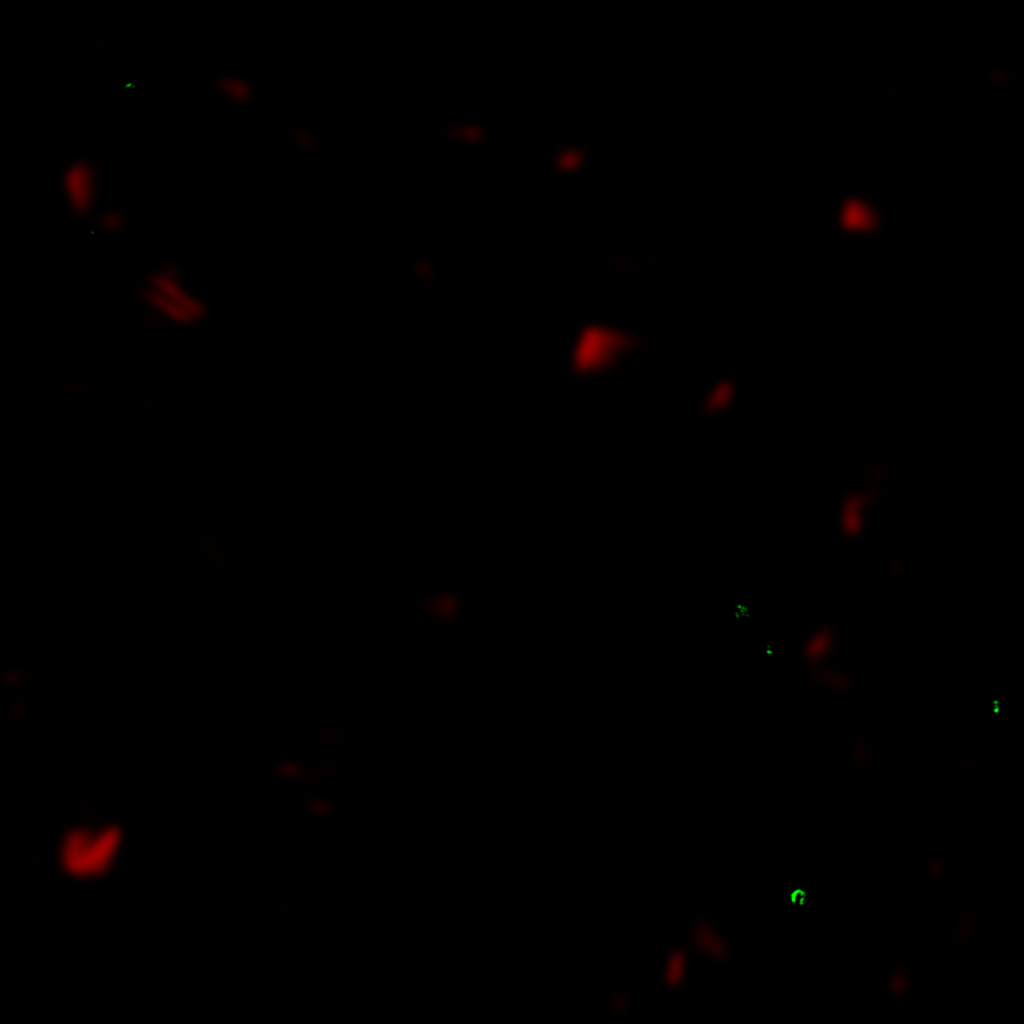
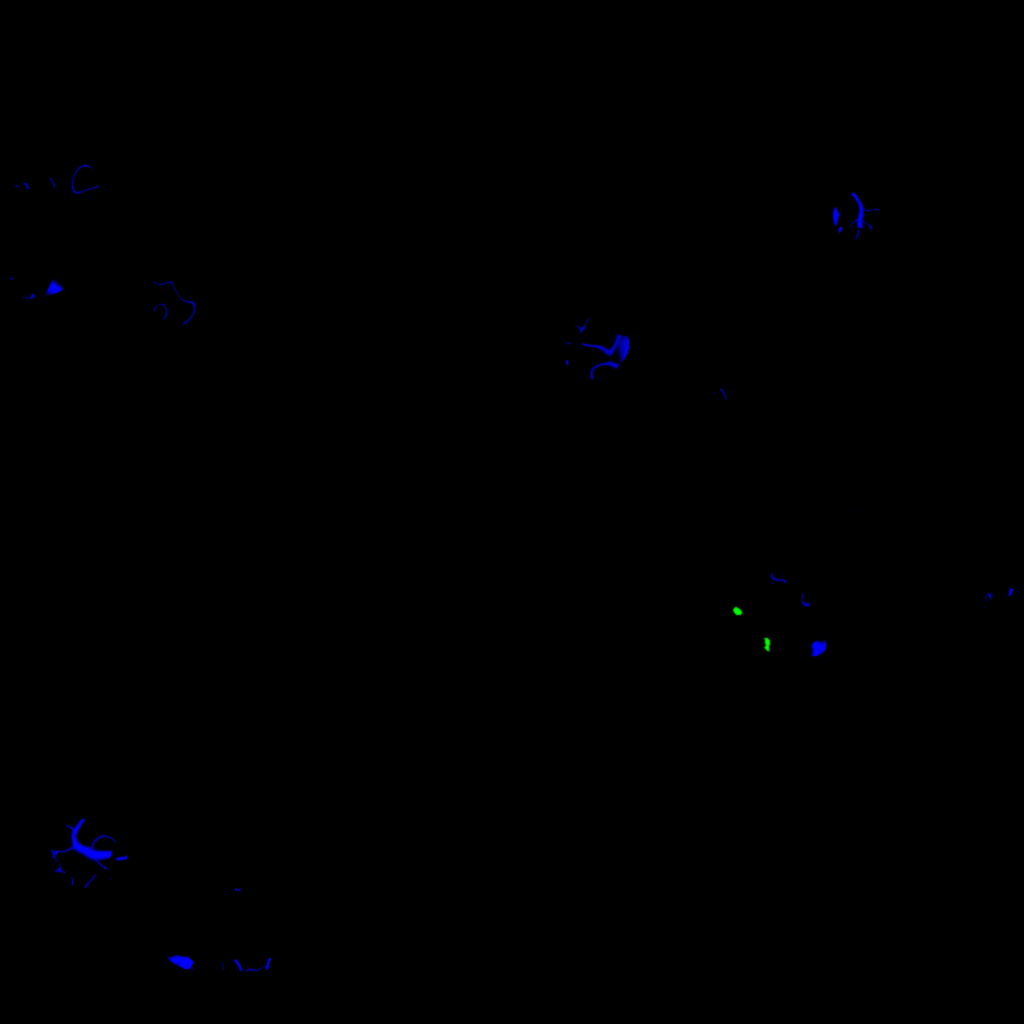
Pupil-only eyes, green veins, Titan back glow, Horde veins and blisters
Claude-Session: https://claude.ai/code/session_017Jb3ZiAdAVEmk7zs8Pm1ip

diff --git a/tools/build_enemy_glow_masks.py b/tools/build_enemy_glow_masks.py
@@ -2,10 +2,11 @@
 
 Run tools/dump_enemy_uv_rasters.gd first, then:
     python3 tools/build_enemy_glow_masks.py <raster dir>
-Channels (read by body_wound.gdshader): R = blister, G = eye, B = alternative blister colour (Horde green).
-Colour and brightness live in the <Enemy>_game.tres material. Colossus blisters are keyed by albedo colour
-(red patches); Titan, Brute, Revenant and Horde use the geometric bump raster. Eyes are the reddest albedo
-pixels inside a narrow height band of the head.
+Channels (read by body_wound.gdshader): R = blister, G = pupil, B = vein.
+Colour and brightness live in the <Enemy>_game.tres material and the shader. Colossus blisters are keyed by
+albedo colour (red patches); the other blisters use the geometric bump raster or noise blobs on the rest-space
+position. Veins are ridged 3D noise on the rest-space position, so they run across texture seams.
+Pupils are discs around two fixed 3D points on the face (measured on the Revenant head).
 """
 import sys
 import numpy as np
@@ -13,8 +14,11 @@ from PIL import Image, ImageFilter
 
 DIR = "models/objects/characters/enemy/game/"
 SIZE = 1024
-# Height band (0..1 inside the top 0.28 m of the model) where the eyes sit; missing = no eyes.
-EYE_BAND = {"Hunger": (0.4, 0.6), "Brute": (0.3, 0.5), "Revenant": (0.4, 0.6), "Titan": (0.3, 0.5)}
+PUPILS = {"Hunger": 0.9, "Brute": 0.9, "Revenant": 0.9}  # name: relative pupil size
+# Pupil centres in rest space: x of both eyes, depth below the top of the model; front is +z.
+EYE_X = (-0.0575, 0.0247)
+EYE_BELOW_TOP = 0.151
+EYE_RADIUS = 0.0085
 
 
 def blur(a, r):
@@ -26,31 +30,74 @@ def smooth(a, lo, hi):
     return t * t * (3 - 2 * t)
 
 
+def value_noise(p, seed):
+    """Trilinear value noise of an (H, W, 3) array of positions, in 0..1."""
+    i = np.floor(p).astype(np.int64)
+    f = p - i
+    f = f * f * (3 - 2 * f)
+
+    def corner(dx, dy, dz):
+        h = (i[..., 0] + dx) * 73856093 ^ (i[..., 1] + dy) * 19349663 ^ (i[..., 2] + dz) * 83492791 ^ seed * 2654435761
+        h = (h ^ (h >> 13)) * 1274126177 & 0xFFFFFFFF
+        return (h & 0xFFFF).astype(np.float32) / 65535
+
+    x = lambda a, b: a + (b - a) * f[..., 0]
+    y = lambda a, b: a + (b - a) * f[..., 1]
+    z = lambda a, b: a + (b - a) * f[..., 2]
+    return z(y(x(corner(0, 0, 0), corner(1, 0, 0)), x(corner(0, 1, 0), corner(1, 1, 0))),
+             y(x(corner(0, 0, 1), corner(1, 0, 1)), x(corner(0, 1, 1), corner(1, 1, 1))))
+
+
+def veins(p, freq=9.0):
+    """Thin branching lines: the zero set of two noise fields."""
+    thin = 1 - np.abs(value_noise(p * freq, 1) * 2 - 1)
+    branch = 1 - np.abs(value_noise(p * freq * 2.3, 2) * 2 - 1)
+    return np.maximum(smooth(thin, 0.9, 0.97), 0.8 * smooth(branch, 0.94, 0.985))
+
+
 def main(raster_dir):
     for name in ["Colossus", "Titan", "Brute", "Revenant", "Horde", "Hunger"]:
         alb = np.asarray(Image.open(DIR + name + "_albedo.jpg").convert("RGB").resize((SIZE, SIZE))).astype(np.float32)
         r, g, b = alb[..., 0], alb[..., 1], alb[..., 2]
         ras = np.asarray(Image.open(f"{raster_dir}/{name}_raster.png")).astype(np.float32) / 255
-        bump, head, height = ras[..., 0], ras[..., 1], ras[..., 2]
+        bump, head = ras[..., 0], ras[..., 1]
+        pos = np.fromfile(f"{raster_dir}/{name}_pos.f32", np.float32).reshape(SIZE, SIZE, 3)
+        top = float(open(f"{raster_dir}/{name}_top.txt").read())
+        x, y, z = pos[..., 0], pos[..., 1], pos[..., 2]
+        mapped = np.abs(pos).sum(axis=2) > 0
+        skin = (r > 110) & (r >= g) & (g >= b * 0.9) & ~((r > 195) & (g > 185)) & mapped
+        lo, hi = np.percentile(bump[skin & (bump > 0)], [82, 96])
+        bumpy = smooth(bump, lo, hi) * skin
+        mutated = blur(bumpy, 14) > 0.07  # mutated skin is the bumpy skin; clothes stay out
+        arm = np.abs(x) > 0.28
         out = np.zeros((SIZE, SIZE, 3), np.float32)
-        skin = (r > 110) & (r >= g) & (g >= b * 0.9) & ~((r > 195) & (g > 185))
-        if name != "Hunger":
-            if name == "Colossus":
-                mask = blur(((r > 1.6 * g) & (r > 110) & (g < 110)).astype(np.float32), 3)
-            else:
-                lo, hi = np.percentile(bump[skin & (bump > 0)], [82, 96])
-                mask = blur(smooth(bump, lo, hi) * skin * (1 - head), 5)  # no glowing scalp
-            out[..., 0] = mask
-            if name == "Horde":
-                cells = np.random.default_rng(7).random((SIZE // 24 + 1, SIZE // 24 + 1)).repeat(24, 0).repeat(24, 1)[:SIZE, :SIZE]
-                out[..., 2] = blur(cells, 2) > 0.5
-        if name in EYE_BAND:
-            lo, hi = EYE_BAND[name]
-            t = 2.6 if name == "Hunger" else 1.5  # Hunger's face is bloody, so only the reddest pixels
-            eye = (r > 100) & (r > t * g) & (r > t * b) & (head > 0.5) & (height >= lo) & (height <= hi)
-            out[..., 1] = blur(eye.astype(np.float32), 1.0) * 1.5
+        blisters = vein = None
+        if name == "Colossus":
+            blisters = ((r > 1.6 * g) & (r > 110) & (g < 110)).astype(np.float32)
+        elif name == "Titan":
+            back = (z < -0.1) & (y > -0.1) & (y < 0.8)
+            blobs = smooth(value_noise(pos * 9, 3), 0.5, 0.68)
+            blisters = np.maximum(bumpy, blobs * 0.9) * back * skin
+            vein = veins(pos) * (mutated & arm & ~back)
+        elif name == "Brute":
+            blisters = bumpy * (head > 0.5)  # the lump on the head
+            vein = veins(pos) * (mutated & arm & (head < 0.5))
+        elif name == "Revenant":
+            vein = veins(pos) * (mutated & (head < 0.5))
+        elif name == "Horde":
+            blisters = bumpy
+            vein = veins(pos) * mapped
+        if blisters is not None:
+            out[..., 0] = blur(blisters, 4)
+        if vein is not None:
+            out[..., 2] = blur(vein.astype(np.float32), 0.7)
+        if name in PUPILS:
+            eyes = np.zeros((SIZE, SIZE), bool)
+            for ex in EYE_X:
+                eyes |= (np.hypot(x - ex, y - (top - EYE_BELOW_TOP)) < EYE_RADIUS * PUPILS[name]) & (z > 0.07)
+            out[..., 1] = blur((eyes & mapped).astype(np.float32), 0.8)
         Image.fromarray((np.clip(out, 0, 1) * 255).astype(np.uint8)).save(DIR + name + "_glow.png")
-        print(name, "blister px", int((out[..., 0] > 0.1).sum()), "eye px", int((out[..., 1] > 0.1).sum()))
+        print(name, [int((out[..., c] > 0.1).sum()) for c in range(3)])
 
 
 main(sys.argv[1])

diff --git a/ACTIVE_TASK.md b/ACTIVE_TASK.md
@@ -6,6 +6,7 @@ phase: 1
 owner: AI
 updated: 2026-10-18
 ---
+12.11.2026 (зрачки и вены, поручение Vadim): светятся только зрачки (красные) у Hunger, Brute, Revenant; у Titan глаз нет. Маска `<Враг>_glow.png`: R волдырь, G зрачок, B вена. Вены (зелёные, бегущий по телу пульс, `vein_color`/`vein_energy` в `body_wound.gdshader`) строятся шумом по rest-позиции (`tools/build_enemy_glow_masks.py`): на мутировавшей руке Titan, Brute, у Revenant на мутировавшей коже, у Horde по всему телу плюс красные волдыри как у Colossus; у Titan зелёное свечение на спине слабее, чем у Colossus; у Brute красный волдырь на голове. Положение зрачков — две точки на лице в rest-пространстве, замерены по голове Revenant (одинаковые для трёх человекоподобных). `tools/dump_enemy_uv_rasters.gd` теперь пишет и позиции текселей (`*_pos.f32`). Тесты: run_enemy_glow_tests, run_shared_skin_tests, run_green_wound_tests PASS; validate_project PASS. Скриншот: /mnt/project-files/enemy_glow_review/glow_pupils_veins.png (пульс на статике не виден). Владелец: features.infected.
 12.11.2026 (пульсирующее свечение волдырей, поручение Vadim): `body_wound.gdshader` теперь рисует волдыри пульсирующим приглушённым внутренним свечением (фаза плывёт по телу через шум в rest-позиции, ярче в центре, к силуэту слабее), глаза тусклые и постоянные; маска `<Враг>_glow.png`: R волдырь, G глаз, B второй цвет (зелёный у Horde), цвет и яркость в `*_game.tres` (`emission`, `emission_energy_multiplier`). Глаза ограничены узкой полосой высоты головы, у Hunger рот больше не светится, у Revenant глаза еле заметны. Тесты: run_enemy_glow_tests, run_shared_skin_tests, run_green_wound_tests PASS; validate_project PASS. Скриншот в темноте: /mnt/project-files/enemy_glow_review/glow_in_dark_pulse.png (статичный кадр, пульс в нём не виден). Владелец: features.infected.
 12.11.2026 (подсветка героя от рюкзака, поручение Vadim): в `player_equipment_pose.gd` на точке крепления рюкзака (кость Spine) добавлен мягкий OmniLight3D `BackpackGlow` (холодный белый, энергия 0.35, дальность 2 м, без теней). Свет включён всегда, не только с миниганом, чтобы героя было видно в темноте. Тест: run_new_weapon_tests (проверка света без теней) 0 failures, run_weapon_presentation_tests 0 failures; validate_project/architecture/game_spec/workflow_state/scene_resources/ci_suites PASS. Не проверялось: вид в игре (нет рендера в контейнере). Владелец: features.player.
 12.11.2026 (свечение врагов в темноте, поручение Vadim): у Hunger, Brute, Revenant, Titan светятся глаза, у Colossus (красным), Titan (зеленоватым), Brute/Revenant (слабо) и Horde (красным и зеленоватым) волдыри. Это emission-маска `<Враг>_glow.png` в `*_game.tres`, скин-шейдер `body_wound.gdshader` берёт её из материала (`emission_texture`, `emission_energy`), кровь приглушает свечение; реальных источников света нет, меши не менялись. Маски строятся `tools/dump_enemy_uv_rasters.gd` + `tools/build_enemy_glow_masks.py` (Colossus по цвету альбедо, остальные по выпуклости геометрии; глаза по красным пикселям головы), снимки `tools/capture_enemy_glow.gd`. Если PR упрощения мешей поменяет UV, маски нужно перестроить. У Hunger свечение захватывает и рот. Тесты: run_enemy_glow_tests (новый), run_shared_skin_tests, run_green_wound_tests PASS; validate_project PASS. Владелец: features.infected.
